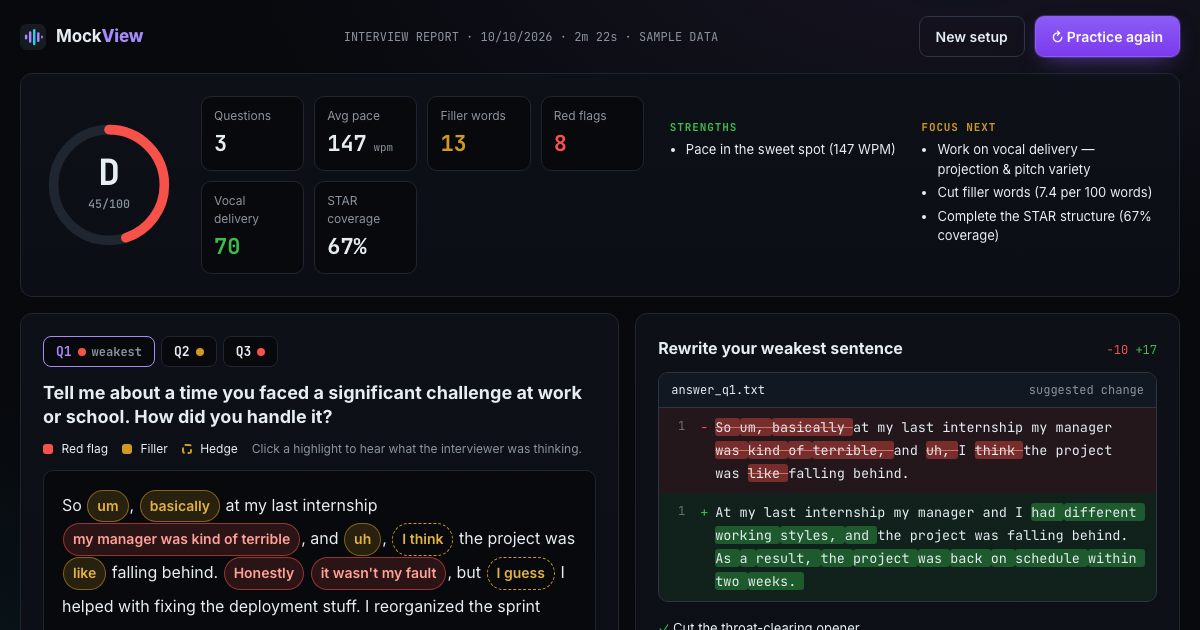
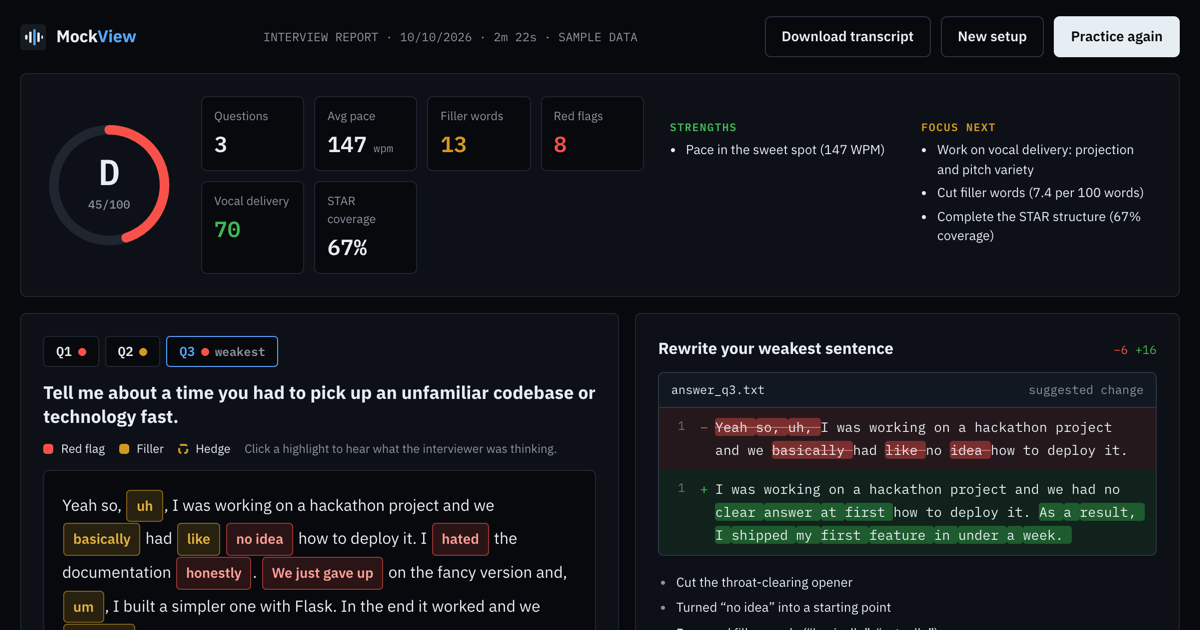
Prepare submission: new screenshots, Devpost text, demo script, showcase files
- Fresh cover and gallery screenshots of the current UI
- DEVPOST.md rewritten to match the shipped product; checklist from the HackRU rules
- DEMO.md: judging script and likely questions
- Showcase entry updated; cover moved to the path the showcase repo uses; teammate roles in bios
- README: accurate persona description, screenshots, repo layout
- Report change lists show bullets again

diff --git a/src/styles.css b/src/styles.css
@@ -1311,10 +1311,13 @@ input[type='range'] {
   border-radius: 3px;
 }
 .changes {
-  list-style: none;
-  padding: 0;
+  list-style: disc;
+  padding-left: 18px;
   margin: 14px 0;
   font-size: 13px;
+}
+.changes li::marker {
+  color: var(--muted);
 }
 .changes li {
   padding: 3px 0;

diff --git a/DEVPOST.md b/DEVPOST.md
@@ -1,92 +1,108 @@
 # Devpost submission: MockView
 
+Copy each section into the matching Devpost field.
+
+**Project name:** MockView
+
 **Tagline (≤ 200 chars):**
-Practice behavioral interviews with a realistic ElevenLabs-voiced interviewer, live grading of what you say and how you sound, and an "ideal delivery" you can actually hear.
+Practice behavioral interviews out loud with an ElevenLabs-voiced interviewer, get live feedback while you speak, then hear exactly how your weakest answer should sound.
+
+**Try it out:**
+- Live demo: https://mockview-ruddy.vercel.app
+- Sample report: https://mockview-ruddy.vercel.app/#sample
+- Code: https://github.com/sttstevenyao/mockview
 
 **Track:** Education
 **Superlatives:** Best Newbie Hack · Use of ElevenLabs
-**Built with:** `react` `vite` `javascript` `elevenlabs` `elevenlabs-scribe` `web-speech-api` `web-audio-api` `vercel` `css`
+**Built with:** `react` `vite` `javascript` `elevenlabs` `elevenlabs-scribe` `web-speech-api` `web-audio-api` `vercel` `vercel-blob` `node.js` `css`
+
+**Image gallery** (upload in this order, from `docs/screenshots/`):
+1. `interview.png`: live interview with the feedback panel
+2. `report.png`: feedback report with the rewrite diff
+3. `report-monologue.png`: clicking a red flag shows the interviewer's inner monologue
+4. `practice.png`: practice page
+5. `onboarding.png`: first-visit questions
 
 ---
 
 ## Inspiration
 
-All four of us are first-time hackers and students heading into internship season. Our first real interviews taught us something uncomfortable: knowing the answer isn't the problem, *saying it well* is. We rambled, said "um" constantly, forgot to mention results, and never got honest feedback, because practicing out loud with a friend is awkward and recruiters rarely tell you why you didn't move forward.
+All four of us are first-time hackers heading into internship season. Our first real interviews taught us something uncomfortable: the hard part is saying the answer well. We rambled, said "um" constantly, forgot to mention results, and never got honest feedback, because practicing out loud with a friend is awkward and recruiters rarely tell you why you didn't move forward.
 
-Career centers can't sit with every student for unlimited mock interviews, and reading "use the STAR method" doesn't teach you what a strong answer *sounds like*. We wanted a coach you could practice with at 2 AM before an interview. It should talk to you like a real interviewer, react to how you speak in real time, and then show you, and play for you, exactly how to say it better. That became MockView.
+Career centers can't sit with every student for unlimited mock interviews, and reading "use the STAR method" doesn't teach you what a strong answer *sounds like*. We wanted a coach you could practice with at 2 AM before an interview: one that talks to you like a real interviewer, reacts to how you speak in real time, and then shows you, and plays for you, how to say it better. That became MockView.
 
 ## What it does
 
-MockView is a customizable behavioral interview simulator with an analytical feedback dashboard.
+MockView is a behavioral interview simulator with live feedback and an analytical report.
 
-**1. Set up your interview.** When you open MockView, a few quick pop-up questions ask your name, experience level, field, target role, and how long you want to practice. You can create an account (username and password, with an optional email) so your answers load automatically when you log in with your username or email. From there you can choose a focus area (General, Software Engineering, Product, Leadership), an interviewer persona (Friendly Recruiter, Hiring Manager, or Bar Raiser), and a session format: a fixed number of questions, a timed session, or **Endless Mode**, which runs until you stop. You can also customize the interviewer's **mannerisms**: speaking pace, expressiveness, how they react to your answers (warm, neutral, curt, or silent), natural backchannel ("Mm-hmm… okay, so…"), whether they **probe with follow-ups** when you're vague ("Can you put a number on that?"), and whether they **interrupt** answers that run too long.
+**1. Set up in 30 seconds.** On your first visit, a few quick pop-up questions ask your name, experience level, field (14 to choose from, from software engineering to nursing to teaching), target role, and session length: a fixed number of questions, a timed session, or **Endless Mode**. Upload a resume and some questions are generated from your own projects and jobs. Pick an interviewer: a warm Friendly Recruiter, an even Hiring Manager who asks follow-ups, or a terse Bar Raiser who interrupts long answers. Create an account to keep your setup across devices.
 
-**2. Interview out loud.** An **ElevenLabs** voice asks each question while an audio-wave visualizer pulses with the voice. When it's your turn, you answer into your mic and a **Live Grading Sidebar** updates in real time:
-- **Filler Word Counter** ("um", "like", "you know"…) with a per-word breakdown
-- **Speaking Pace gauge** (WPM), with slow, ideal and fast zones
-- **Confidence Score**, which shifts as you hedge, add numbers, or hit STAR beats
-- **STAR tracker** that lights up Situation, Task, Action and Result as you cover them
-- **Vocal Delivery meter**, which scores how you *sound*: projection, pitch variety (monotone vs. expressive) and pauses
-- **Live coach** tips such as "Land the plane: what was the measurable Result?"
+**2. Interview out loud.** An **ElevenLabs** voice asks each question while a waveform pulses with it. You answer into your mic, your words appear as you speak, and a live feedback panel shows only what you can act on mid-sentence:
+- a **coaching tip** ("Land the plane: what was the measurable Result?")
+- a **STAR checklist** that ticks off Situation, Task, Action and Result as you cover them
+- a **pace bar** with the ideal 115 to 175 words-per-minute range marked
+- a **filler-word counter** showing which fillers you lean on
 
-The interviewer **reacts to what you actually said** after each answer. A quantified STAR answer earns "I like that you put a number on the result", while a missing outcome gets "I didn't quite hear how it turned out." If it hears nothing, it asks **"Sorry, what was that?"**, and after repeated silence it stops and asks you to check your mic and restart. It never praises an empty answer. Everything said is logged in a live conversation transcript, and each answer is recorded so you can replay it on the report or download the full transcript.
+The interviewer **reacts to what you actually said**. A quantified STAR answer earns "I like that you put a number on the result"; a missing outcome gets "I didn't quite hear how it turned out." If it hears nothing it asks **"Sorry, what was that?"**, and after repeated silence it stops and asks you to check your mic. It never praises an empty answer. Every line is logged in a live conversation transcript, and each answer is recorded.
 
-**3. Get your report.** A split-screen feedback view shows your transcript with inline **red pills (red flags)** and **amber pills (fillers and hedges)**. Click any pill to read the **Interviewer's Inner Monologue**, e.g. *"'Honestly' — wait, were the other answers not honest?"* On the right, a **GitHub-style diff** rewrites your weakest sentence: it removes fillers and hedges, reframes blame into ownership, upgrades passive verbs, and adds a quantified result. Then you press **Hear Ideal Delivery**, and ElevenLabs reads the improved sentence aloud in a natural, confident voice, right next to a playback of your original. You also get an overall grade, strengths and focus areas, and a "How you sounded" vocal breakdown.
+**3. Get your report.** Your transcript appears with **red pills** for red flags and **amber pills** for fillers and hedges. Click one to read the **interviewer's inner monologue**, like *"'Honestly'? Were the other answers dishonest?"* A **GitHub-style diff** rewrites your weakest sentence: it cuts fillers and hedges, turns blame into ownership, upgrades passive verbs, and adds a measurable result. Press **Hear ideal delivery** and ElevenLabs reads the improved sentence in a confident voice, next to your original. You also get a grade, strengths, focus areas, a "How you sounded" vocal breakdown, playback of your own recording, and a downloadable transcript.
+
+**Settings** cover light, dark or system theme, reduced motion, skipping the interviewer's introduction, reactions, how long a silence triggers a prompt, live tips, the live transcript, and the voice model and speed.
 
 ## How we built it
 
-- **Frontend:** React 18 + Vite with a hand-built dark "terminal" design system (no UI library), SVG gauges and rings, and a canvas waveform visualizer.
-- **ElevenLabs Text-to-Speech** is the voice of the product. Every interviewer line is generated through `/v1/text-to-speech/{voice_id}`. We mapped our setup screen's "mannerisms" directly onto ElevenLabs voice settings: pace → `speed`, expressiveness → lower `stability` + higher `style`, so a Bar Raiser actually *sounds* terse and a Friendly Recruiter sounds warm. We use `<break time="0.6s"/>` tags to add human pauses, let users pick **`eleven_multilingual_v2`** (most realistic) or **`eleven_flash_v2_5`** (lowest latency), and always use Multilingual v2 for the "Ideal Delivery" playback.
-- **No dead air:** while one question plays, we prefetch the next question's ElevenLabs audio, and we cache audio per sentence.
-- **Secure key handling:** a tiny proxy (`server/elevenlabs.js`) runs as Vite middleware locally and as a Vercel serverless function in production, so the API key never reaches the browser.
-- **Speech in:** the browser's Web Speech API gives us zero-latency transcripts. We wrapped it to auto-restart after Chrome's silence timeouts, and we mute it while the interviewer talks so it doesn't transcribe the AI's own voice.
-- **ElevenLabs Speech-to-Text (Scribe)** covers browsers where that doesn't work. Brave blocks the built-in recognizer and Firefox doesn't have one, so in those browsers we record the mic in pause-to-pause clips (detected from the live RMS level) and transcribe each clip through `/v1/speech-to-text` with `scribe_v1` as soon as you pause. Clips with no detected speech are never sent, so silence can't become invented words.
-- **Grading engine:** instead of waiting on an LLM, we wrote a deterministic local rules engine: regex dictionaries for fillers, hedges and 13 categories of red flags; STAR-structure detection; a confidence formula; a rule-based sentence rewriter; and a longest-common-subsequence word diff. Scoring is instant, works offline, and every point can be explained to the user.
-- **Vocal analysis:** we tap the microphone with the Web Audio API and run our own **autocorrelation pitch detector**, RMS loudness meter, and adaptive noise floor (for a noisy hackathon hall) to score projection, pitch variety, steadiness and pauses.
+- **Frontend:** React 18 + Vite with a hand-built design system (no UI library), light and dark themes, SVG and canvas visualizations.
+- **ElevenLabs Text to Speech** is the interviewer's voice. Every line goes through `/v1/text-to-speech/{voice_id}`. Each persona's mannerisms map onto voice settings (pace to `speed`, expressiveness to lower `stability` and higher `style`), so the Bar Raiser *sounds* terse and the recruiter sounds warm. `<break time="0.6s"/>` tags add human pauses. Users choose `eleven_multilingual_v2` (most realistic) or `eleven_flash_v2_5` (lowest latency); "Hear ideal delivery" always uses Multilingual v2.
+- **No dead air:** while one question plays, the next question's audio is prefetched, and audio is cached per sentence.
+- **ElevenLabs Speech to Text (Scribe)** handles the other direction where browsers can't. Brave blocks the built-in recognizer and Firefox doesn't ship one, so there we record the mic in pause-to-pause clips, detected from the live loudness level, and transcribe each clip with `scribe_v1` as soon as you pause. Clips without detected speech are never sent, so silence can't turn into invented words.
+- **Speech in elsewhere:** the browser's Web Speech API gives zero-latency transcripts. We wrapped it to restart after Chrome's silence timeouts and pause it while the interviewer talks, so it never transcribes the AI's own voice.
+- **Grading engine:** a deterministic rules engine in the browser: regex dictionaries for fillers, hedges and 13 kinds of red flags, STAR detection, a confidence formula, a rule-based sentence rewriter, and a longest-common-subsequence word diff. Scoring is instant, and every point can be explained.
+- **Vocal analysis:** the Web Audio API feeds our own autocorrelation pitch detector, loudness meter and adaptive noise floor to score projection, pitch variety, steadiness and pauses.
+- **Backend:** Vercel serverless functions keep the ElevenLabs key off the client. Accounts live in a private Vercel Blob store, with scrypt password hashes and an HMAC-signed HttpOnly session cookie, so you can log in from any device.
 
 ## Challenges we ran into
 
-- **Speakers + microphone = the AI hears itself.** With laptop speakers, speech recognition would transcribe the interviewer's ElevenLabs voice as the user's answer. We built the flow as strict turn-taking: the mic pauses while the interviewer speaks and resumes automatically after.
-- **Chrome's speech recognition stops after a few seconds of silence**, which ended answers mid-thought. We wrapped it in a transcriber that silently restarts and stitches results together.
-- **Transcripts have no punctuation**, so "find the weakest sentence" had no sentences. We used the recognizer's pause-delimited chunks as sentence boundaries and split long runs at conjunctions.
-- **Rule-based rewrites can produce broken grammar.** Deleting "tried to" left "I do everything myself." We tested rules against messy real answers and removed or rewrote the ones that broke tense.
-- **Latency vs. realism.** Flash is fast and Multilingual v2 sounds more human. Prefetching the next question let us default to the more realistic model without awkward gaps.
-- **Pitch detection is hard.** Octave errors and room noise made early "expressiveness" scores jumpy. We added outlier filtering around the median pitch and an adaptive noise floor.
-- **Brave blocks speech recognition.** The API exists in Brave but fails with a network error because Brave won't send audio to Google. Rather than tell judges to switch browsers, we detect Brave (and that error) and switch to ElevenLabs Scribe automatically.
-- **Being first-timers.** None of us had shipped a full web app in 24 hours before. <!-- TODO: add a real moment from your night here -->
+- **The AI heard itself.** With laptop speakers, speech recognition transcribed the interviewer's ElevenLabs voice as the user's answer. We made the flow strict turn-taking: the mic pauses while the interviewer speaks.
+- **Chrome stops listening after a few seconds of silence**, which cut answers off mid-thought. Our transcriber restarts silently and stitches the results together.
+- **Brave blocks speech recognition.** The API exists but fails with a network error, because Brave won't send audio to Google. We detect Brave and that error and switch to ElevenLabs Scribe automatically.
+- **Transcripts have no punctuation**, so "find the weakest sentence" had no sentences. We used the recognizer's pause-delimited chunks as boundaries and split long runs at conjunctions.
+- **A blank answer got an A.** While testing what happens when the mic hears nothing, a session with one real answer and one empty one scored 95/100. The grade was weighted by word count, so an empty answer counted for nothing. Every question now counts equally, and that session scores a D with "Answer every question" as the top fix.
+- **Rule-based rewrites can break grammar.** Deleting "tried to" left "I do everything myself." We tested rules against messy real answers and rewrote the ones that broke tense.
+- **Latency vs. realism.** Flash is fast; Multilingual v2 sounds more human. Prefetching the next question let us default to the realistic model without gaps.
 
 ## Accomplishments that we're proud of
 
-- Shipping a complete, polished product as **four first-time hackers**: setup, live interview, and a feedback dashboard that looks like an enterprise tool.
-- A sidebar that **genuinely reacts while you talk**. Saying "um" makes the counter jump, and the gauge needle swings with your pace.
-- Using ElevenLabs for **both directions of the conversation**: Text-to-Speech for the interviewer and Speech-to-Text (Scribe) for the candidate wherever the browser can't transcribe.
-- Using **ElevenLabs as more than a voice-over**: personas, mannerisms mapped to voice settings, natural pauses, prefetching, and the "Hear Ideal Delivery" moment where a student finally *hears* what a strong answer sounds like.
-- Building our own **pitch and loudness analysis** from raw audio samples in the browser.
-- A grading engine with **zero LLM latency** that explains every score.
+- Shipping a complete product as **four first-time hackers**: onboarding, accounts, a live interview, a feedback report, and settings, deployed and usable by anyone with a browser.
+- Using ElevenLabs for **both sides of the conversation**: Text to Speech for the interviewer, and Speech to Text so the app works in any modern browser.
+- The **"Hear ideal delivery"** moment, where a student hears what a strong version of their own sentence sounds like.
+- An interviewer that **listens**: reactions grounded in what you said, and honest handling of silence.
+- Our own **pitch and loudness analysis** from raw audio samples, and a grading engine with zero AI latency that explains every score.
 
 ## What we learned
 
-- How text-to-speech settings like stability, style and speed change how a voice is perceived, and how much natural pauses matter for realism.
-- How the Web Speech and Web Audio APIs work under the hood (analyser nodes, time-domain vs. frequency data, autocorrelation).
-- That good feedback is specific and actionable. A diff with a reason for each change teaches more than a score.
-- How to scope ruthlessly: we had a working end-to-end demo early and polished from there.
+- How stability, style and speed change how a synthetic voice is perceived, and how much natural pauses matter for realism.
+- How the Web Speech and Web Audio APIs work underneath: analyser nodes, time-domain data, autocorrelation.
+- Good feedback is specific. A diff with a reason for each change teaches more than a score.
+- Test the empty cases. Our worst bug only appeared when the user said nothing.
 
 ## What's next for MockView
 
-- Practice history saved to your account, so you can watch your filler-word rate and scores improve across sessions.
-- **ElevenLabs Agents** for fully conversational interviews with adaptive, context-aware follow-ups.
-- Company- and role-specific question packs, plus progress tracking across sessions so students can watch their filler rate drop.
-- A career-center mode where advisors assign practice sets and review students' reports.
-- Multilingual interviews, since ElevenLabs supports 32 languages, for international students practicing in English or in their target market's language.
+- Practice history on your account, so you can watch your filler rate and scores improve across sessions.
+- **ElevenLabs Agents** for fully conversational interviews with adaptive follow-ups.
+- Company- and role-specific question packs.
+- A career-center mode where advisors assign practice sets and review reports.
+- Interviews in other languages, using ElevenLabs' multilingual voices.
 
 ---
 
 ## Submission checklist (delete before posting)
 
-- [ ] Devpost: every team member added to the project (max 4) and registered for HackRU
-- [ ] Track: **Education** only (selecting more than one track = disqualification)
-- [ ] Superlatives: **Best Newbie Hack** + **Use of ElevenLabs** (max 2)
-- [ ] Public GitHub repo link + demo video (~2 min) + screenshots (`docs/cover.png`)
-- [ ] Submitted **before 10:00 AM ET Sunday, Oct 11**
-- [ ] All four members at the judging table at **1:00 PM ET** and back for prizes at **3:30 PM ET**
-- [ ] ElevenLabs: PR to `elevenlabs/showcase` + their submission form + feedback form (links in the ElevenLabs hacker guide)
+- [ ] Every teammate has a Devpost account and has **accepted the invite** to the project (required: each member listed as a contributor)
+- [ ] Track: **Education** only (more than one track = disqualification)
+- [ ] Superlatives: **Best Newbie Hack** and **Use of ElevenLabs** (max 2)
+- [ ] Repository link: https://github.com/sttstevenyao/mockview
+- [ ] Gallery images uploaded from `docs/screenshots/`
+- [ ] Submitted before **10:00 AM ET, Sunday Oct 11**
+- [ ] Whole team at the table for judging at **1:00 PM ET**; rehearse with `DEMO.md`
+- [ ] Back for prizes at **3:30 PM ET** (winners must be present to sign)
+- [ ] Optional: demo video (not required by HackRU)

diff --git a/DEMO.md b/DEMO.md
@@ -1,0 +1,44 @@
+# MockView demo script
+
+Judging is in person at your table from 1:00 PM ET. Judges score **functionality**, **creativity** and **technical difficulty**. This runs about 3 minutes; the Q&A section covers what they're likely to ask.
+
+## Before judges arrive
+
+- Open https://mockview-ruddy.vercel.app in **Chrome** on the demo laptop. Allow the microphone.
+- Log in, so the pop-up questions don't appear mid-demo.
+- In **Settings**, turn on **Skip the introduction** so the first question comes right away.
+- Click **Preview voice** once to warm up audio.
+- Have a second tab open on https://mockview-ruddy.vercel.app/#sample in case the hall is too loud for the mic.
+- If the room is loud, use headphones for audio, or use **Simulate answer** (press S) for one answer.
+
+## Script
+
+**1. Hook (15 s).** "Most students know their stories. They lose the interview in how they tell them: rambling, saying 'um', forgetting the result. MockView is a practice interviewer you talk to out loud that tells you exactly how to say it better."
+
+**2. Setup (20 s).** On Practice: "You tell it your level and field, pick an interviewer, and optionally upload a resume so it asks about your own projects." Point at the three personas: "The Bar Raiser interrupts long answers. Each persona's mannerisms map to ElevenLabs voice settings, so they sound different."
+
+**3. Live interview (60 s).** Click **Start interview**. The ElevenLabs voice asks the question.
+- Answer badly on purpose for 15 seconds: "So um, basically my manager was kind of terrible, and honestly it wasn't my fault…"
+- Point at the right column as it updates: "Filler counter jumps. The tip flags the red flag. The STAR checklist shows I never gave a result."
+- Press **Next**. The interviewer reacts to what you said. "It responds to the actual content. If you say nothing, it asks 'Sorry, what was that?' and never praises an empty answer."
+
+**4. Report (60 s).** Click **End interview**.
+- Click a red pill: "Every flagged phrase has the interviewer's inner monologue and a fix."
+- Point at the diff: "It rewrites your weakest sentence: cuts fillers, turns blame into ownership, adds a measurable result."
+- Click **Hear ideal delivery**. Let it play. "That's the moment we built this for: hearing what a strong version of *your* sentence sounds like."
+
+**5. Technical close (25 s).** "ElevenLabs runs both directions: Text to Speech for the interviewer, and Speech to Text with Scribe when the browser can't transcribe, like in Brave. Grading is a rules engine in the browser, so it's instant and every point is explainable. Accounts sync across devices. We're four first-time hackers, and it's live right now at mockview-ruddy.vercel.app."
+
+## Likely questions
+
+- **Why not use an LLM for grading?** Instant feedback while you talk, no API latency, and every score traces back to a specific phrase. An LLM grade can't tell you which word cost you points.
+- **How does it use ElevenLabs?** TTS for every interviewer line with persona-specific voice settings and pause tags; Multilingual v2 for the ideal-delivery playback; Scribe speech-to-text as the fallback transcriber; next-question audio prefetched to avoid gaps.
+- **How do you detect STAR?** Phrase patterns for each part, like "my task was", "I led", "as a result", plus a check for numbers in the result.
+- **How do you analyze the voice?** Web Audio API: autocorrelation pitch detection for pitch variety, loudness in dB for projection, and talk-time ratio for pauses.
+- **What happens if the mic fails?** You can type answers; in Brave or Firefox it switches to ElevenLabs Scribe automatically.
+- **Is the resume uploaded?** No. It's parsed in the browser with PDF.js.
+- **Who is it for?** Students preparing for internship and new-grad interviews, career centers, and non-native speakers working on delivery. (Education track.)
+
+## Optional video (2 minutes)
+
+HackRU doesn't require one. If you record it anyway (QuickTime: File > New Screen Recording), follow the script above in order: hook, setup, a bad answer with the panel reacting, the interviewer's reaction, the report, clicking a red pill, **Hear ideal delivery**, and the technical close. Upload to YouTube as unlisted and add the link to Devpost and to `videoUrl` in `showcase/projects/mockview.mdx`.

diff --git a/README.md b/README.md
@@ -8,14 +8,18 @@
 
 ![MockView feedback report](docs/cover.png)
 
+| Live interview | Practice page |
+|---|---|
+| ![Live interview with the feedback panel](docs/screenshots/interview.png) | ![Practice page](docs/screenshots/practice.png) |
+
 ---
 
 ## ✨ Features
 
 | | |
 |---|---|
-| 🗣 **ElevenLabs-voiced interviewer** | Three personas (Friendly Recruiter, Hiring Manager, Bar Raiser) and four premade ElevenLabs voices. Choose **Realistic** (`eleven_multilingual_v2`) or **Low latency** (`eleven_flash_v2_5`). |
-| 🎭 **Custom mannerisms** | Speaking pace, expressiveness, reaction style (warm / neutral / curt / silent), natural backchannel ("Mm-hmm…"), **follow-up probing** for vague answers, and **interruptions** for answers that run long. |
+| 🗣 **ElevenLabs-voiced interviewer** | Three personas and four premade ElevenLabs voices. Choose **Realistic** (`eleven_multilingual_v2`) or **Fast** (`eleven_flash_v2_5`) in Settings. |
+| 🎭 **Persona mannerisms** | Each persona has its own pace, expressiveness and reaction style. The Friendly Recruiter says "mm-hmm", the Hiring Manager **asks follow-ups** on vague answers, and the Bar Raiser **interrupts** answers that run past 90 seconds. |
 | 👋 **Guided onboarding + accounts** | Pop-up questions on first visit (name, experience level, field, role, session length), then an optional account (username + password, email optional) that saves your preferences. Log in with your username or email. Accounts are stored server-side in a private Vercel Blob store, passwords are hashed with scrypt, and sessions use a signed HttpOnly cookie, so you can log in from any device. |
 | 💬 **Reactive interviewer** | After each answer the interviewer responds to what you actually said: praise for a quantified STAR answer, "I didn't hear how it turned out" when the result is missing, and never praise for an empty answer. |
 | 🤫 **Silence handling** | If it hears nothing, the interviewer asks "Sorry, what was that?". After repeated silence it stops and asks you to check your mic and restart. |
@@ -64,7 +68,7 @@ cp .env.example .env        # then paste your key into ELEVENLABS_API_KEY
 npm run dev                 # → http://localhost:5173
 ```
 
-Allow microphone access when Chrome asks. Tips:
+Allow microphone access when the browser asks. Tips:
 
 - Open **`/#sample`** to jump straight to a sample feedback report.
 - During an interview, press **S** (*Simulate answer*) to stream a scripted answer. This is useful in a noisy room or for a quick demo.
@@ -133,19 +137,19 @@ All four of us are first-time hackers at HackRU Fall 2026.
 
 ## 🏆 Hackathon submission
 
-- **Event:** HackRU Fall 2026, Rutgers University (Oct 10–11, 2026)
+- **Event:** HackRU Fall 2026, Rutgers University (Oct 10 to 11, 2026)
 - **Track:** Education
 - **Superlatives:** Best Newbie Hack · Use of ElevenLabs
-- Built from scratch during the hacking period (12:00 PM Oct 10 – 10:00 AM Oct 11). See the commit history.
+- Built from scratch during the hacking period (12:00 PM Oct 10 to 10:00 AM Oct 11). See the commit history.
 
 ## 🌟 ElevenLabs Showcase
 
 This repository is open source (MIT) and ready to submit to the [ElevenLabs Showcase](https://showcase.elevenlabs.io/). The [`showcase/`](showcase) folder mirrors their repo layout:
 
 ```
-showcase/authors/<name>.yml        → copy to  elevenlabs/showcase/authors/
-showcase/projects/mockview.mdx     → copy to  elevenlabs/showcase/projects/
-showcase/projects/images/mockview.png → copy to elevenlabs/showcase/projects/images/
+showcase/authors/<name>.yml                    → elevenlabs/showcase/authors/
+showcase/projects/mockview.mdx                 → elevenlabs/showcase/projects/
+showcase/apps/www/public/images/mockview.png   → elevenlabs/showcase/apps/www/public/images/
 ```
 
 See [CONTRIBUTING.md](https://github.com/elevenlabs/showcase/blob/main/.github/CONTRIBUTING.md) for their PR process.
